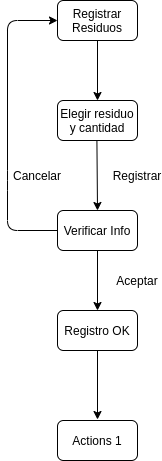
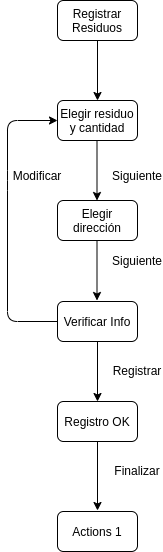
[UPD] se actualizan algunos texto y gráficos de interacción

Changed region(s): [[0.0309, 0.0, 0.9877, 1.0], [0.0309, 0.4859, 0.0926, 0.577], [0.0617, 0.577, 0.0926, 0.6074]]

diff --git a/doc/docs/ui_registrar_residuo.md b/doc/docs/ui_registrar_residuo.md
@@ -3,9 +3,20 @@ id: ui_registrar_residuo
 title: Registrar Residuo
 sidebar_label: Registrar Residuo
 ---
+Es la acción principal que usted podrá realizar en la plataforma, posteriormente de haberlos registrado y rotulados con el numero identificador que asigna el sistema, estarán en condiciónes de ser transladados por usted u otro usuario a un centro de reciclado donde se los procesará.
+
+
+## Paso 1: Seleccione la cantidad de contenedores que posea por tipo de residuo
 ![](assets/ui/registrar_residuo/Register0.png)
-![](assets/ui/registrar_residuo/Register1.png)
-![](assets/ui/registrar_residuo/Register2.png)
+
+## Paso 2: Seleccione la dirección (por defecto toma la ingresada en la cuenta)
 ![](assets/ui/registrar_residuo/mapa.png)
+
+## Paso 3: Confirme los datos ingresados
+![](assets/ui/registrar_residuo/Register1.png)
+
+## Paso 4: El sistema generará los números de contenedores que deberá anotar en cada uno de ellos
+![](assets/ui/registrar_residuo/Register2.png)
+
 
 

diff --git a/doc/docs/ui_transportar_cr.md b/doc/docs/ui_transportar_cr.md
@@ -4,6 +4,8 @@ title: Transportar al Centro de Reciclaje
 sidebar_label: Transportar a CR
 ---
 
+Una vez que se registró residuos y/o que se le fue transferidos residuos de otros usuarios, se deben transladar los mismo al centro de reciclado más cercano en donde se validarán los mismos, procesarán y se retribuirá la labor de haber registrado y trasladados dichos residuos a ese punto.
+
 ## Paso 1: Seleccionar contenedores
 ![](assets/ui/transportar_cr/CR0.png)
 

diff --git a/doc/docs/ui_perfil.md b/doc/docs/ui_perfil.md
@@ -6,6 +6,9 @@ sidebar_label: Perfil
 ## Perfil de otro usuario
 ![](assets/ui/perfil/perfil_de_otro.png)
 
+## Menu perfil propio
+![](assets/ui/perfil/perfil_propio_menu.png)
+
 ## Perfil propio
 ![](assets/ui/perfil/perfil_propio_final.png)
 
@@ -15,6 +18,4 @@ sidebar_label: Perfil
 ## Transacciones Pendientes
 ![](assets/ui/perfil/pendientes.png)
 
-## Menu perfil propio
-![](assets/ui/perfil/perfil_propio_menu.png)
 

diff --git a/doc/docs/ui_app_map.md b/doc/docs/ui_app_map.md
@@ -8,11 +8,11 @@ sidebar_label: Application Map
 
 ## Action 0
 
-[![](assets/pmv/action0.png)](assets/ui/menu/accion0.png)
+[![](assets/pmv/action0.png)](ui_menu/#action-0)
 
 ## Action 1
 
-[![](assets/pmv/action1.png)](assets/ui/menu/accion1.png)
+[![](assets/pmv/action1.png)](ui_menu/#action-1)
 
 ## Registrar Residuos
 

diff --git a/doc/docs/ui_menu.md b/doc/docs/ui_menu.md
@@ -4,7 +4,9 @@ title: Menú
 sidebar_label: Menú
 ---
 ## Action 0
+Menú inicial
 ![](assets/ui/menu/accion0.png)
 
 ## Action 1
+Menú que aparece una vez que ya ha registrado residuos
 ![](assets/ui/menu/accion1.png)
